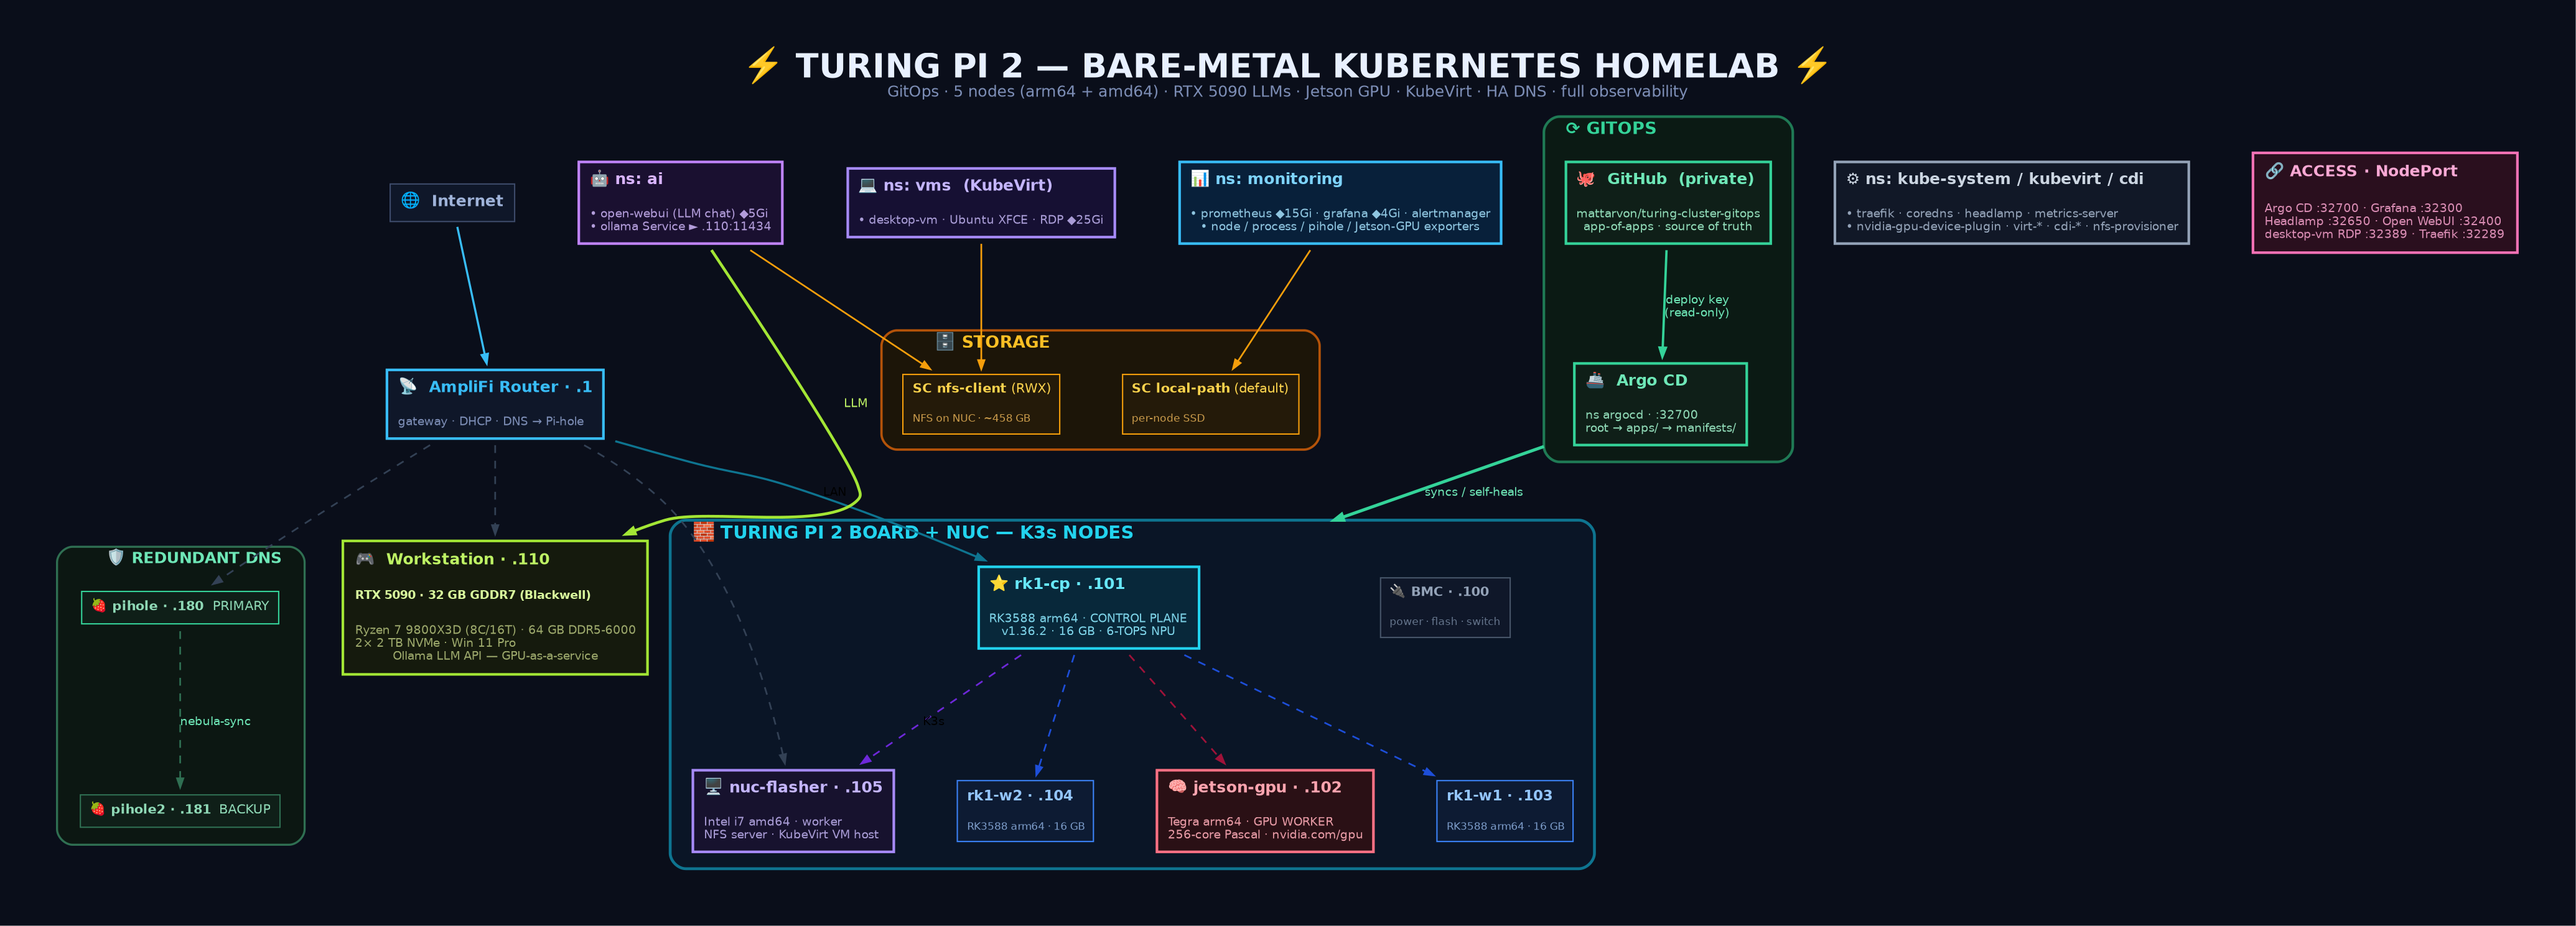
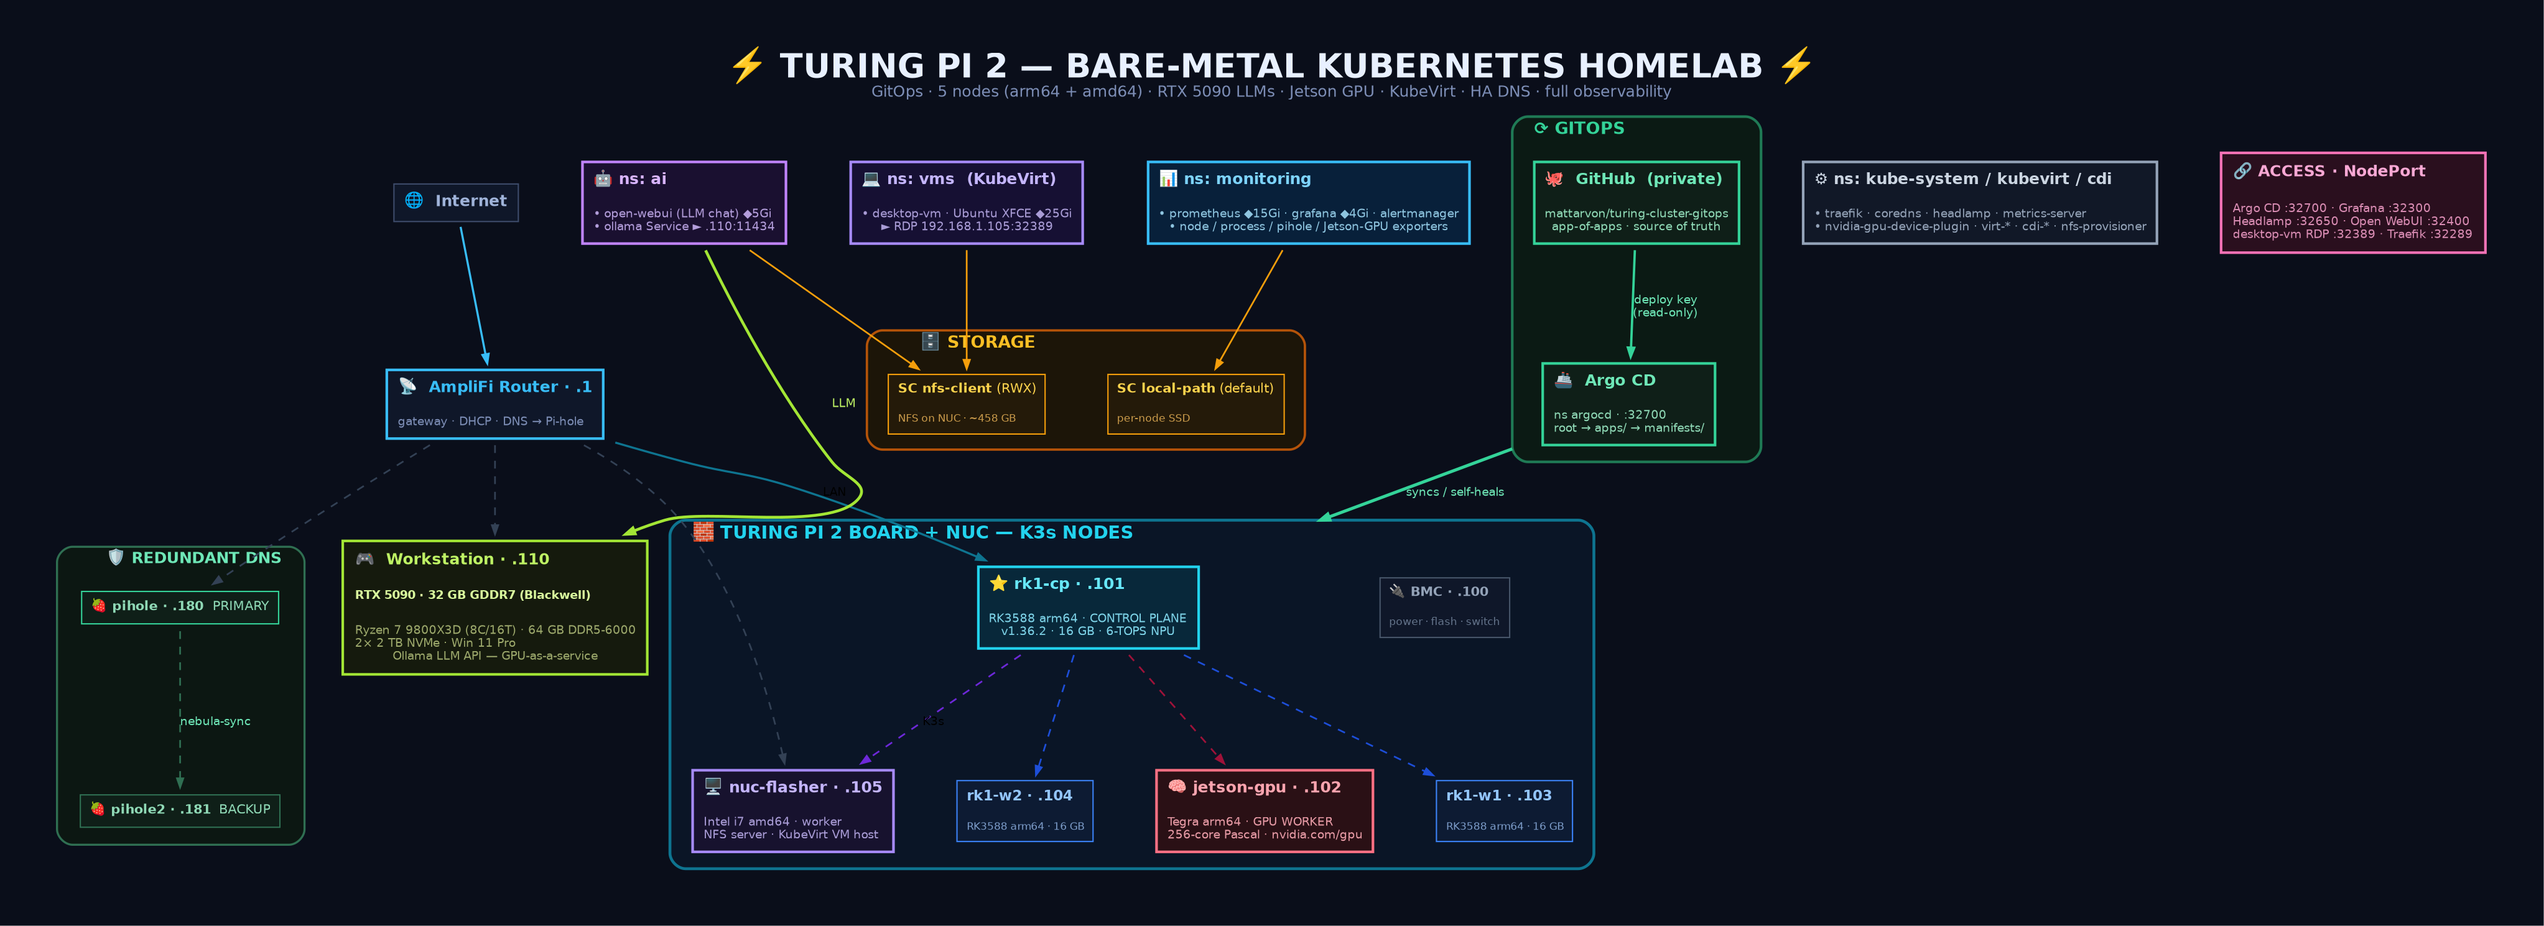
docs: surface KubeVirt desktop-vm RDP endpoint in highlights, access table & topology
Highlights now name the RDP endpoint; added an Access & endpoints table to the
README (KubeVirt VM first); topology vms card shows RDP 192.168.1.105:32389.

diff --git a/README.md b/README.md
@@ -24,7 +24,7 @@ Credentials live only in the local build doc and are never committed here.
 - **GitOps** — Argo CD (app-of-apps) reconciles everything from this git repo.
 - **GPU-as-a-service** — an RTX 5090 (32 GB) serves local LLMs (Ollama + Open WebUI) to the cluster without being a node.
 - **Schedulable Jetson GPU** — `nvidia.com/gpu` workloads (CUDA compute, raytracing, fractals) on the Tegra.
-- **Real VMs** — KubeVirt runs a full Linux desktop (RDP) alongside containers.
+- **Real VMs** — KubeVirt runs a full Linux desktop alongside containers, reachable over **RDP at `192.168.1.105:32389`**.
 - **Redundant DNS** — primary + backup Pi-hole, auto-synced nightly, LAN-wide ad-blocking.
 - **458 GB shared storage** — NFS RWX served from the NUC to the whole cluster.
 - **Full observability** — Prometheus, Grafana, Alertmanager, per-host + per-process + GPU metrics.
@@ -74,6 +74,22 @@ switch (single RJ45 uplink), and a **BMC** (baseboard management controller) for
 | **DNS** | Pi-hole v6 ×2 (HA, nebula-sync) |
 | **Observability** | kube-prometheus-stack + node/process/Pi-hole/Jetson-GPU exporters |
 | **Cluster UI** | Headlamp |
+
+---
+
+## 🔗 Access & endpoints
+
+Reachable on any node IP (e.g. `.101`); remotely via the Tailscale subnet router.
+
+| Endpoint | Address | What |
+|----------|---------|------|
+| **KubeVirt desktop VM** | **`192.168.1.105:32389`** (RDP) | Full Ubuntu XFCE desktop VM (ns `vms`) |
+| Open WebUI | `192.168.1.101:32400` | LLM chat, backed by the RTX 5090 |
+| Grafana | `192.168.1.101:32300` | Metrics dashboards |
+| Argo CD | `192.168.1.101:32700` | GitOps UI |
+| Headlamp | `192.168.1.101:32650` | Kubernetes UI |
+| Kubernetes API | `192.168.1.101:6443` | `kubectl` |
+| Traefik ingress | `:32289` (web) / `:30145` (websecure) | Cluster ingress |
 
 ---
 
